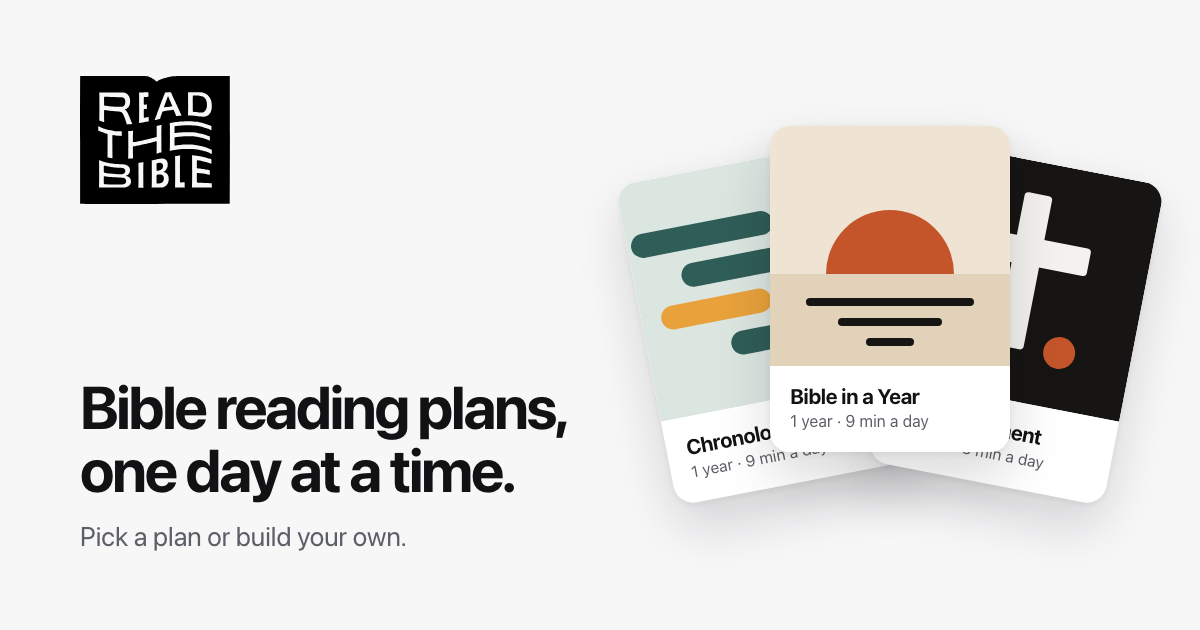
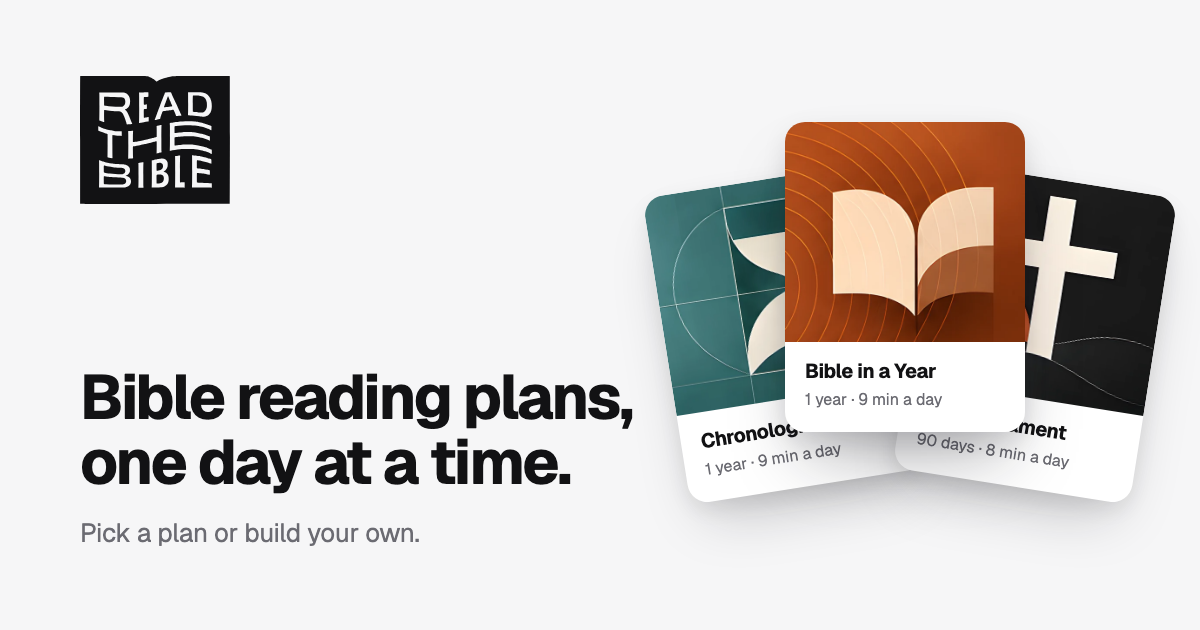
OG image: card fan with the paper-cut plan covers
Swap the old flat covers for the current sun, timeline and cross art,
and version the og:image URL so share previews refresh.

Changed region(s): [[0.4933, 0.181, 0.9867, 0.8143], [0.0617, 0.573, 0.5242, 0.8746], [0.8633, 0.7841, 0.925, 0.8143]]

diff --git a/index.html b/index.html
@@ -19,14 +19,14 @@
 	<meta property="og:title" content="Read the Bible">
 	<meta property="og:description" content="Bible reading plans, one day at a time. Pick a plan or build your own.">
 	<meta property="og:url" content="https://bible-plan-eta.vercel.app/">
-	<meta property="og:image" content="https://bible-plan-eta.vercel.app/assets/og-image.png">
+	<meta property="og:image" content="https://bible-plan-eta.vercel.app/assets/og-image.png?v=2">
 	<meta property="og:image:width" content="1200">
 	<meta property="og:image:height" content="630">
 	<meta property="og:image:alt" content="Read the Bible: Bible reading plans, one day at a time.">
 	<meta name="twitter:card" content="summary_large_image">
 	<meta name="twitter:title" content="Read the Bible">
 	<meta name="twitter:description" content="Bible reading plans, one day at a time. Pick a plan or build your own.">
-	<meta name="twitter:image" content="https://bible-plan-eta.vercel.app/assets/og-image.png">
+	<meta name="twitter:image" content="https://bible-plan-eta.vercel.app/assets/og-image.png?v=2">
 	<script>
 		(function () {
 			var theme = null;
